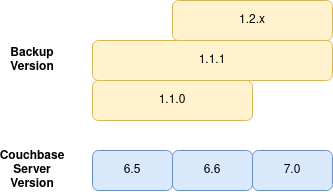
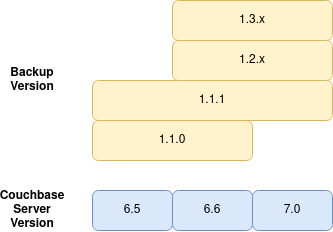
K8S-2677: Update Image Defaults
Across CRDs, documentation and certification.

diff --git a/test/e2e/framework/constants_redhat.go b/test/e2e/framework/constants_redhat.go
@@ -18,7 +18,7 @@ var (
 	serverImageUpgradeFromDefault   = imageRepo + "/couchbase/server:6.6.4-1"
 	exporterImageDefault            = imageRepo + "/couchbase/exporter:1.0.5-1"
 	exporterImageUpgradeFromDefault = imageRepo + "/couchbase/exporter:1.0.4-2"
-	backupImageDefault              = imageRepo + "/couchbase/operator-backup:1.2.0-1"
-	loggingImageDefault             = imageRepo + "/couchbase/fluent-bit:1.1.1-1"
-	loggingImageUpgradeFromDefault  = imageRepo + "/couchbase/fluent-bit:1.0.4-1"
+	backupImageDefault              = imageRepo + "/couchbase/operator-backup:1.3.0-1"
+	loggingImageDefault             = imageRepo + "/couchbase/fluent-bit:1.2.0-1"
+	loggingImageUpgradeFromDefault  = imageRepo + "/couchbase/fluent-bit:1.1.1-1"
 )

diff --git a/test/e2e/framework/constants.go b/test/e2e/framework/constants.go
@@ -15,7 +15,7 @@ var (
 	serverImageUpgradeFromDefault   = "couchbase/server:6.6.4"
 	exporterImageDefault            = "couchbase/exporter:1.0.5"
 	exporterImageUpgradeFromDefault = "couchbase/exporter:1.0.4"
-	backupImageDefault              = "couchbase/operator-backup:1.2.0"
-	loggingImageDefault             = "couchbase/fluent-bit:1.1.1"
-	loggingImageUpgradeFromDefault  = "couchbase/fluent-bit:1.0.4"
+	backupImageDefault              = "couchbase/operator-backup:1.3.0"
+	loggingImageDefault             = "couchbase/fluent-bit:1.2.0"
+	loggingImageUpgradeFromDefault  = "couchbase/fluent-bit:1.1.1"
 )

diff --git a/pkg/apis/couchbase/v2/types.go b/pkg/apis/couchbase/v2/types.go
@@ -3483,7 +3483,7 @@ type LogShipperSidecarSpec struct {
 	// Image is the image to be used to deal with logging as a sidecar.
 	// No validation is carried out as this can be any arbitrary repo and tag.
 	// It will default to the latest supported version of Fluent Bit.
-	// +kubebuilder:default="couchbase/fluent-bit:1.1.1"
+	// +kubebuilder:default="couchbase/fluent-bit:1.2.0"
 	Image string `json:"image,omitempty"`
 
 	// ConfigurationMountPath is the location to mount the ConfigurationName Secret into the image.
